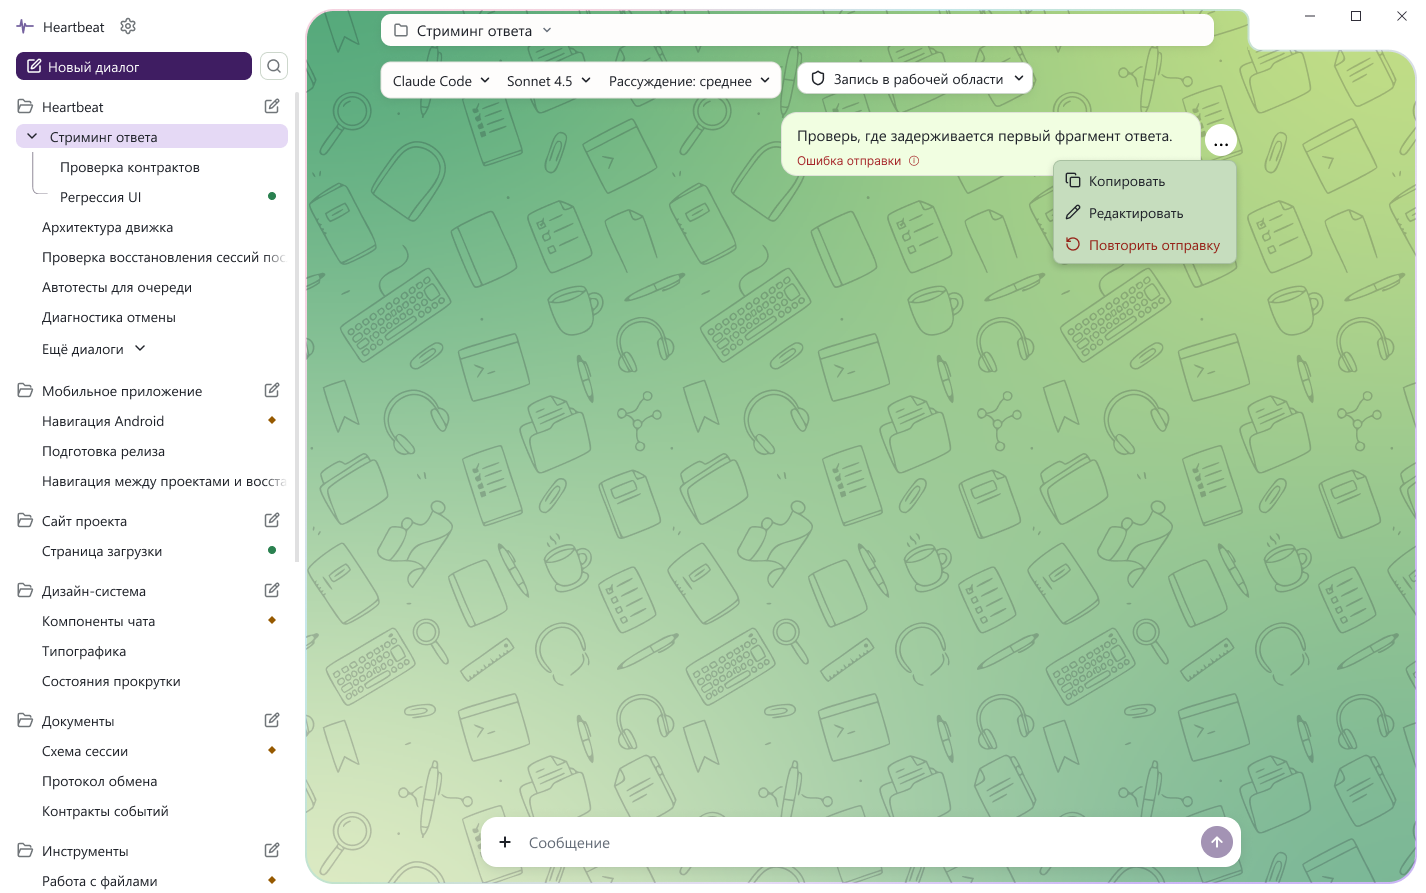
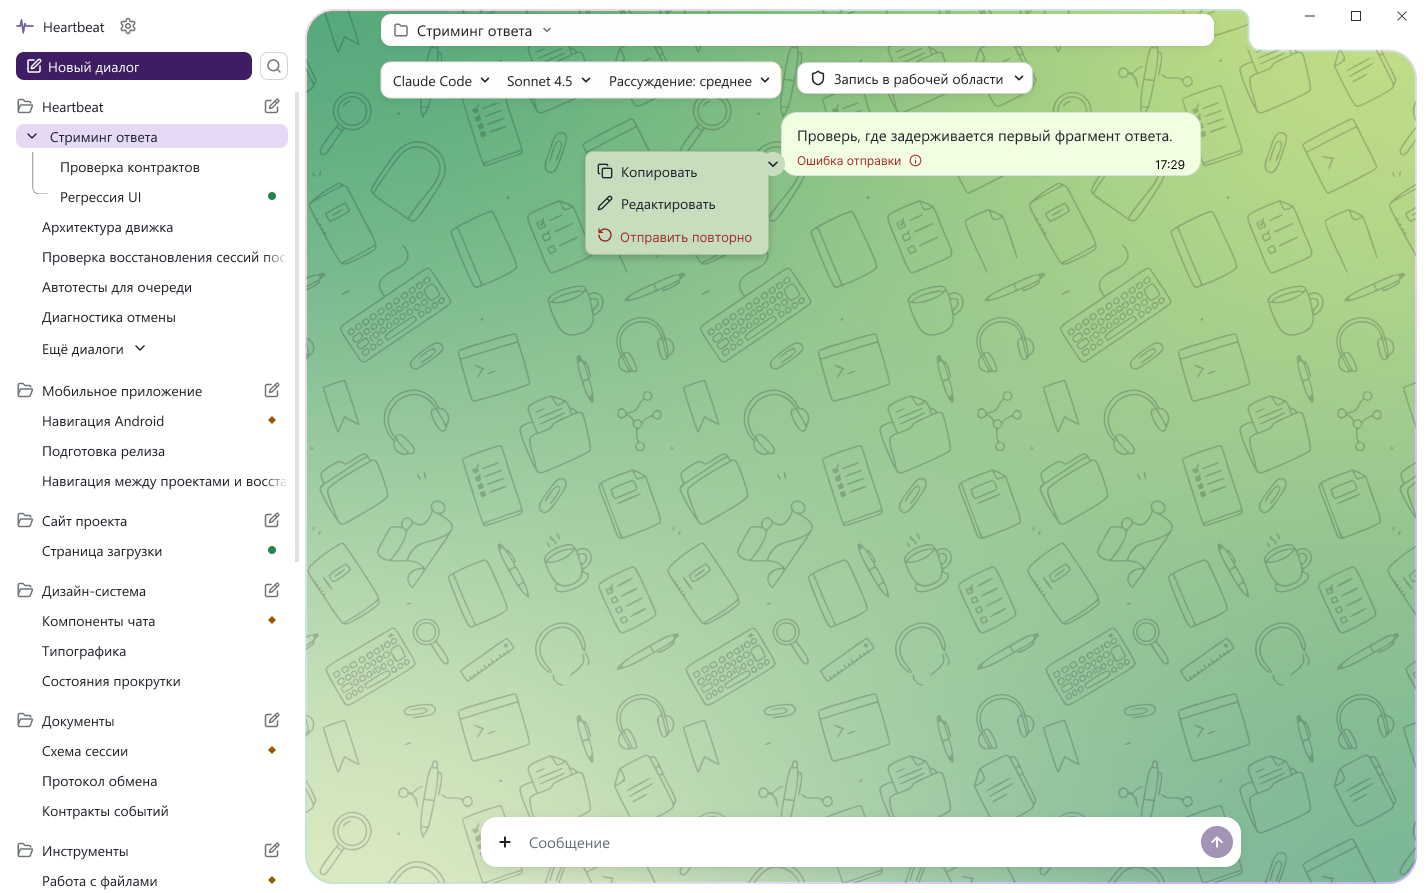
Align Desktop message badges and agent timelines with Heartbeat

Changed region(s): [[0.4011, 0.1512, 0.5554, 0.3024], [0.7405, 0.1209, 0.8948, 0.3024]]

diff --git a/plans/aurora-chat-longread.md b/plans/aurora-chat-longread.md
@@ -220,7 +220,7 @@
 
 ### Как читать и проверять макет
 
-- [Сообщение отправлено, ответа ещё нет](https://www.figma.com/design/ivLmgulIBIkMzOw8sgvKxj/Aurora-DS?node-id=467-159620). На экране запрос пользователя, компактное «Агент работает» с фиолетовым кольцом и тремя анимированными точками, кнопка остановки. В прототипе через четыре секунды появляется [первый вызов без названия группы](https://www.figma.com/design/ivLmgulIBIkMzOw8sgvKxj/Aurora-DS?node-id=467-160818). Одиночный вызов занимает место ожидания. Со вторым шагом появляется группа. Если агент её не назвал, клиент выбирает подпись из подходящего набора. В приложении переход запускает первое событие.
+- [Сообщение отправлено, ответа ещё нет](https://www.figma.com/design/ivLmgulIBIkMzOw8sgvKxj/Aurora-DS?node-id=467-159620). На экране запрос пользователя, компактное «Агент работает» с фиолетовым кольцом и тремя анимированными точками, кнопка остановки. В прототипе через четыре секунды появляется [первый вызов без названия группы](https://www.figma.com/design/ivLmgulIBIkMzOw8sgvKxj/Aurora-DS?node-id=467-160818). Первый вызов появляется под фиолетовым статусом на общей оси. Со вторым шагом появляется группа. Если агент её не назвал, клиент выбирает подпись из подходящего набора. В приложении переход запускает первое событие.
 - При продолжающемся ответе сразу после промежуточного итога на общей оси появляется новый фиолетовый маркер с индикатором ожидания. Свёрнутые этапы сохраняют свои фоновые операции. Ожидание не увеличивает количество вызванных инструментов.
 - [До промежуточного итога](https://www.figma.com/design/ivLmgulIBIkMzOw8sgvKxj/Aurora-DS?node-id=465-145925). В текущем этапе видны вперемешку пять вызовов. Предыдущий этап свёрнут, сборка доступна по его шапке. Полная переписка показывает состояние после ручного раскрытия предыдущих этапов.
 - [После промежуточного итога](https://www.figma.com/design/ivLmgulIBIkMzOw8sgvKxj/Aurora-DS?node-id=467-156200). Этап завершён и все его вызовы свёрнуты, хотя два ещё выполняются. Итог остаётся виден. В прототипе между этими кадрами настроен демонстрационный переход через восемь секунд. В приложении переход запускает событие итога.
@@ -248,3 +248,9 @@
 В [образце выделения](https://www.figma.com/design/ivLmgulIBIkMzOw8sgvKxj/Aurora-DS?node-id=478-103107) подсвечены только слова «Ход работы». Счётчик этапов остаётся читаемым, финал и время сохраняют координаты. Desktop использует общую область ответа и шапки. На Android доступ к истории постоянно виден в потоке.
 
 В Present пройдены появление группы с открытым поиском, повтор через внешнее меню, подтверждение остановки и ожидание после HTTP 429. Результаты и ссылки на кадры собраны в [checkpoint](../CHECKPOINT.md#проверка-прототипа).
+
+### Хронология активного ответа
+
+Фиолетовое кольцо и «Агент работает» отмечают активный ход. Под статусом видны публичное пояснение и вызов со своим результатом. При параллельной работе справа в строке статуса показано количество активных вызовов. В прерванном ответе остаются история, уже полученный текст и состояние ответа.
+
+У этапа с одним шагом нет отдельного переключателя группы. Инструмент остаётся на линии, а его подробности раскрываются своим шевроном. Заголовок «Ход работы» поддерживает наведение и выделение в раскрытой и свёрнутой истории. [Варианты одного шага](https://www.figma.com/design/ivLmgulIBIkMzOw8sgvKxj/Aurora-DS?node-id=493-122774) · [Выделение заголовка](https://www.figma.com/design/ivLmgulIBIkMzOw8sgvKxj/Aurora-DS?node-id=493-119687).

diff --git a/plans/aurora-message-error.md b/plans/aurora-message-error.md
@@ -62,3 +62,11 @@ Desktop Windows/macOS: причина открывается по наведен
 На лист 43 добавлено раскрытое меню ошибочного сообщения: копирование, редактирование и красный пункт «Повторить отправку». Троеточие снаружи справа; ширина пузыря 466 сохранена. Визуально проверено и сохранено.
 Подписи пунктов меню сокращены по указанию оператора: «Копировать», «Редактировать», «Повторить отправку». Правило применяется к меню пользователя, агента и состояниям ошибки, включая раскрытые примеры. Доступные имена могут уточнять сообщение.
 Ширина всех меню сообщений подогнана под короткие подписи: ширина наиболее длинной подписи + 48 dp на иконку, зазор и поля, округление вверх до 4 dp, минимум 112 dp. У правых раскрытых меню сохранена правая привязка к троеточию. Высота пунктов и размеры сообщений не изменены.
+
+## Desktop · бейдж в работающем клиенте
+
+Проверено в Heartbeat на macOS. При наведении у нижнего внешнего угла сообщения появляется светло-зелёный круг с тёмным шевроном вниз. У пользовательской реплики он слева, у ответа агента справа. При открытии меню текст и время сохраняют положение. Это уточнение заменяет прежнее размещение троеточий.
+
+Клик по бейджу завершённого ответа и ПКМ по тексту открыли «Копировать». ПКМ по отправленной пользовательской реплике открыл «Копировать» и «Редактировать». Для ошибки доставки в макете добавлен пункт «Отправить повторно». Для прерванного ответа «Продолжить» находится в меню агента. До истечения срока HTTP 429 продолжение недоступно. В Figma меню открывается бейджем, нативный ПКМ проверен в приложении.
+
+[Наведение на сообщение пользователя](https://www.figma.com/design/ivLmgulIBIkMzOw8sgvKxj/Aurora-DS?node-id=493-123439) · [Наведение на ответ](https://www.figma.com/design/ivLmgulIBIkMzOw8sgvKxj/Aurora-DS?node-id=493-124306) · [Подсказка ошибки доставки](https://www.figma.com/design/ivLmgulIBIkMzOw8sgvKxj/Aurora-DS?node-id=493-109545) · [Меню прерванного ответа](https://www.figma.com/design/ivLmgulIBIkMzOw8sgvKxj/Aurora-DS?node-id=493-114635).

diff --git a/CHECKPOINT.md b/CHECKPOINT.md
@@ -6,6 +6,12 @@
 
 Открыть [лист раскрытых инструментов](https://www.figma.com/design/ivLmgulIBIkMzOw8sgvKxj/Aurora-DS?node-id=478-102742) и [выделение «Ход работы»](https://www.figma.com/design/ivLmgulIBIkMzOw8sgvKxj/Aurora-DS?node-id=478-103107). На листе десять примеров по шести присланным изображениям, включая пустой поиск и два состояния PowerShell. Текст пояснения предназначен для пользователя. Данные демонстрационные.
 
+### Последняя сверка с Heartbeat Desktop
+
+В работающем приложении проверены бейдж нижнего угла и ПКМ у обеих ролей. У пользователя шеврон слева, у агента справа. У завершённого ответа открывается «Копировать», у отправленной реплики — также «Редактировать». В Figma есть [подсказка ошибки доставки](https://www.figma.com/design/ivLmgulIBIkMzOw8sgvKxj/Aurora-DS?node-id=493-109545), [причина прерывания](https://www.figma.com/design/ivLmgulIBIkMzOw8sgvKxj/Aurora-DS?node-id=493-121828) и [меню продолжения](https://www.figma.com/design/ivLmgulIBIkMzOw8sgvKxj/Aurora-DS?node-id=493-114635).
+
+Для одного шага сверить [статус, публичный ход и вызов на общей линии](https://www.figma.com/design/ivLmgulIBIkMzOw8sgvKxj/Aurora-DS?node-id=493-122774). Этап с одним вызовом остаётся видимым. Подробности инструмента доступны отдельно. В открытой истории [выделение заголовка](https://www.figma.com/design/ivLmgulIBIkMzOw8sgvKxj/Aurora-DS?node-id=493-119687) сохраняет раскрытие и фон наведения.
+
 ### Проверка прототипа
 
 | Действие в Present | Наблюдение |
